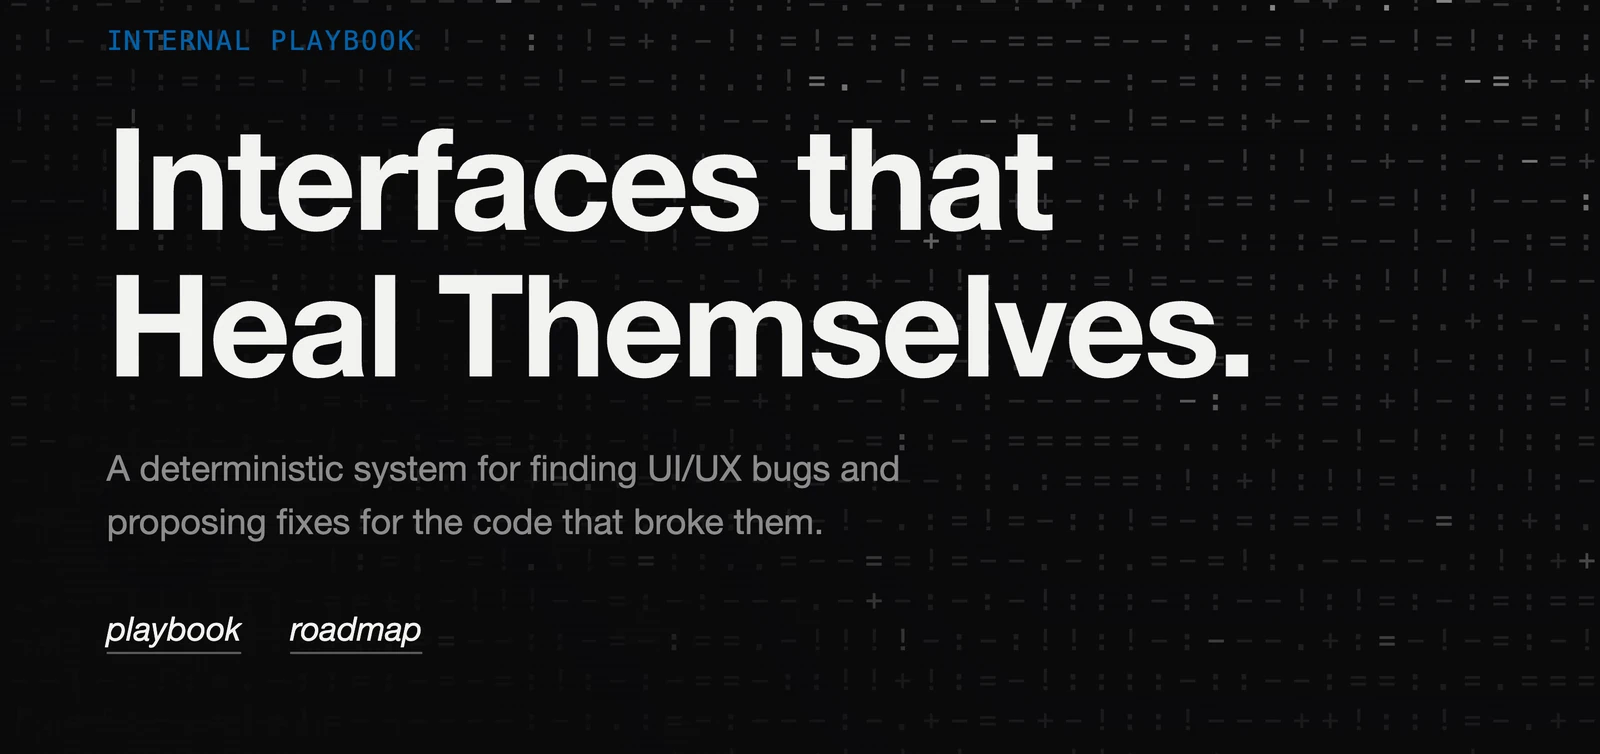
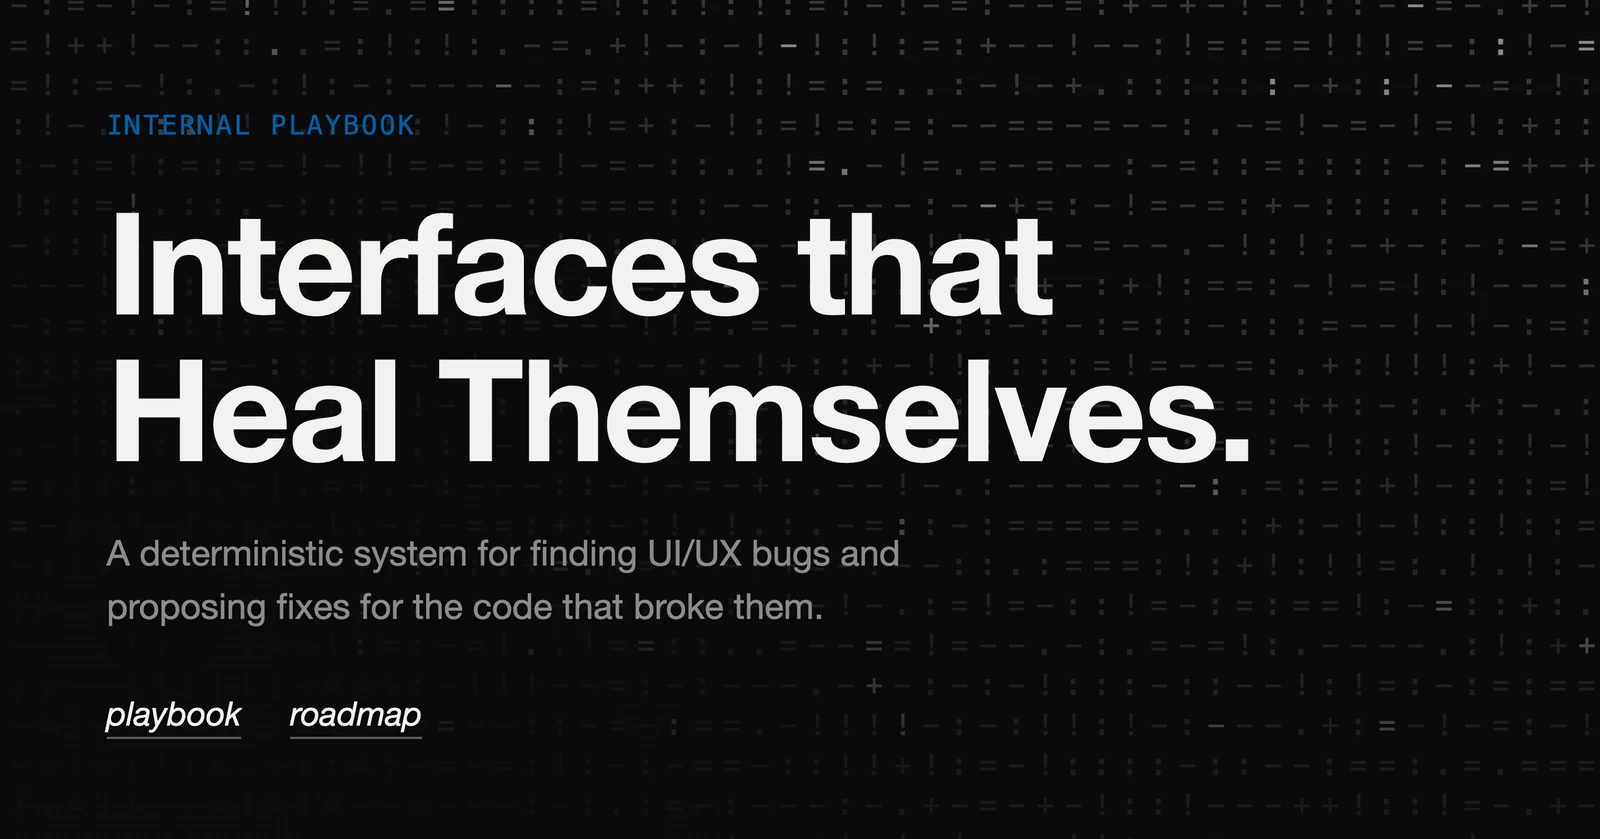
Trim self-healing's preface, drop the em dash, adjust the header crop
Preface: removed the empty Tools line entirely, and reworded the
organization line to "Stealth Startup, backed by Z Fellows; T1 Angels".

"the problem" now reads as two sentences instead of one joined by an em
dash, per suhana's note.

Header crop gets noticeably more headroom above "INTERNAL PLAYBOOK"
instead of sitting right at its edge.

Thumbnail (`image`) is now suhana's own supplied screenshot, cropped to
the tile's exact aspect ratio so it still fills with zero border.

Claude-Session: https://claude.ai/code/session_012UtzSmvA6R9ja3hmmTzGtg

diff --git a/components/desk/projects.ts b/components/desk/projects.ts
@@ -272,14 +272,14 @@ export const PROJECTS: Project[] = [
           [
             "Year: 2026",
             "Role: AI Engineering Intern",
-            "Organization: Stealth Startup \u2014 backed by T1 Angels, Z Fellows, Pear VC",
+            "Organization: Stealth Startup, backed by Z Fellows; T1 Angels",
           ],
-          ["Languages: Python, JavaScript, SQL", "Tools:"],
+          ["Languages: Python, JavaScript, SQL"],
         ],
       },
       {
         heading: "the problem",
-        body: "Most self-healing pipelines stop at the backend \u2014 they catch failing tests and broken functions, but nothing looks at what actually renders in the browser. Broken layouts, unreachable buttons, and accessibility violations all slip through, and the only backstop left is a human clicking through every page by hand.",
+        body: "Most self-healing pipelines stop at the backend. They catch failing tests and broken functions, but nothing looks at what actually renders in the browser. Broken layouts, unreachable buttons, and accessibility violations all slip through, and the only backstop left is a human clicking through every page by hand.",
       },
       {
         heading: "what i did",
